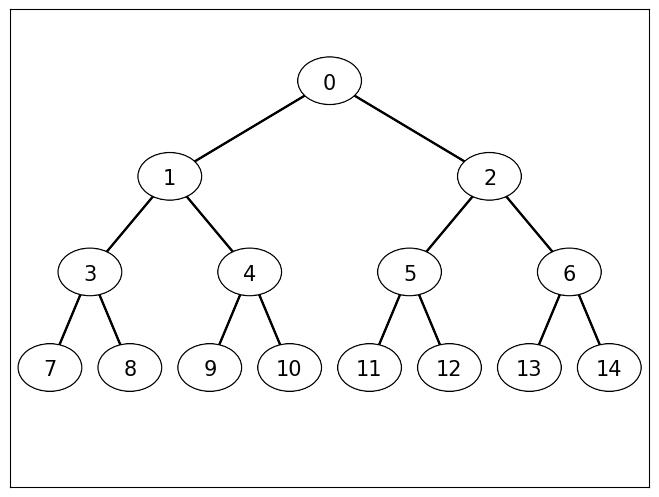
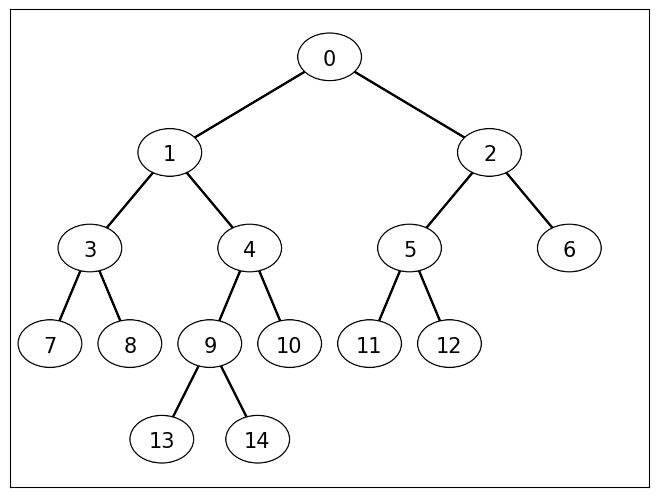
Update to better show the differences between the child and descendant relationships (using node 4)

diff --git a/src/examples/TreeDemo.py b/src/examples/TreeDemo.py
@@ -20,12 +20,86 @@ def main(treeSaveLocation):
     @use  treeSaveLocation - The location where the image of the tree will be saved.
     """
 
+    # Define the positions of the non-leaf nodes in the tree.
+    nonLeafNodeCoords = {'0' : {'x' : 5, 'y' : 9},
+                         '1' : {'x' : 2.5, 'y' : 7},
+                         '2' : {'x' : 7.5, 'y' : 7},
+                         '3' : {'x' : 1.25, 'y' : 5},
+                         '4' : {'x' : 3.75, 'y' : 5},
+                         '5' : {'x' : 6.25, 'y' : 5},
+                         '9' : {'x' : 3.125, 'y' : 3}
+                        }
+    leafNodeCoords = {'6' : {'x' : 8.75, 'y' : 5},
+                      '7' : {'x' : 0.625, 'y' : 3},
+                      '8' : {'x' : 1.875, 'y' : 3},
+                      '10' : {'x' : 4.375, 'y' : 3},
+                      '11' : {'x' : 5.625, 'y' : 3},
+                      '12' : {'x' : 6.875, 'y' : 3},
+                      '13' : {'x' : 2.375, 'y' : 1},
+                      '14' : {'x' : 3.875, 'y' : 1}
+                     }
+
+    # Define the edge relationships.
+    edges = {'0' : ['1', '2'],
+             '1' : ['3', '4'],
+             '2' : ['5' ,'6'],
+             '3' : ['7', '8'],
+             '4' : ['9', '10'],
+             '5' : ['11', '12'],
+             '9' : ['13', '14']
+            }
+
+    # Define the node properties.
+    nodeWidth = 1.0
+    nodeColour = 'white'
+
+    # Define the axis size.
+    axisMinValue = 0.0
+    axisMaxValue = 10.0
+
+    # Determine the node centres and labels.
+    nodeCenterXValues = [nonLeafNodeCoords[i]['x'] for i in nonLeafNodeCoords] + [leafNodeCoords[i]['x'] for i in leafNodeCoords]
+    nodeCenterYValues = [nonLeafNodeCoords[i]['y'] for i in nonLeafNodeCoords] + [leafNodeCoords[i]['y'] for i in leafNodeCoords]
+    nodeLabels = [i for i in nonLeafNodeCoords] + [i for i in leafNodeCoords]
+
+    # Determine the tree edges.
+    treeEdgesXValues = []
+    treeEdgesYValues = []
+    for i in edges:
+        iCentreXValue = nonLeafNodeCoords[i]['x']
+        iCentreYValue = nonLeafNodeCoords[i]['y']
+        children = edges[i]
+        for j in children:
+            if j in nonLeafNodeCoords:
+                jCoords = nonLeafNodeCoords[j]
+            else:
+                jCoords = leafNodeCoords[j]
+            treeEdgesXValues.append([iCentreXValue, jCoords['x']])
+            treeEdgesYValues.append([iCentreYValue, jCoords['y']])
+
+    # Create the plot for the tree.
+    currentFigure = plt.figure()
+    gsTree = gridspec.GridSpec(10, 10)
+    gsTree.update(left=0, right=1, bottom=0, top=1, wspace=0.05)#, hspace=0.05)
+    treePlot = plt.subplot(gsTree[1:-1, 1:-1])
+    treePlot.set_xlim(left=axisMinValue, right=axisMaxValue)
+    treePlot.set_ylim(bottom=axisMinValue, top=axisMaxValue)
+    nodes = [patches.Circle((nodeCenterXValues[i], nodeCenterYValues[i]), nodeWidth / 2) for i in range(len(nodeCenterXValues))]
+    patchplotting.graphGeneration(nodes, currentFigure=currentFigure, faceColors=[nodeColour] * len(nodes), zorders=[-1])
+    addtext.graphGeneration(nodeCenterXValues, nodeCenterYValues, nodeLabels, currentFigure=currentFigure, sizes=[15] * len(nodeLabels), zorders=list(range(len(nodeLabels))))
+    linegraph.graphGeneration(treeEdgesXValues, treeEdgesYValues, currentFigure=currentFigure, markerSizes=[0] * len(treeEdgesYValues), zorders=[-len(treeEdgesXValues)])
+    removeTickMarks(treePlot, xAxis=True, yAxis=True)
+
+    plt.savefig(treeSaveLocation, bbox_inches='tight', transparent=True)
+
+    sys.exit()
+
     # Define the number of nodes in the tree and their labels.
     numberOfNodes = 15
     nodesWithOutgoingEdge = int((numberOfNodes - 1) / 2)
     nodeLabels = [str(i) for i in range(numberOfNodes)]
 
-    # Define the axis size;
+    # Define the axis size.
     axisMinValue = 0.0
     axisMaxValue = 10.0
 
